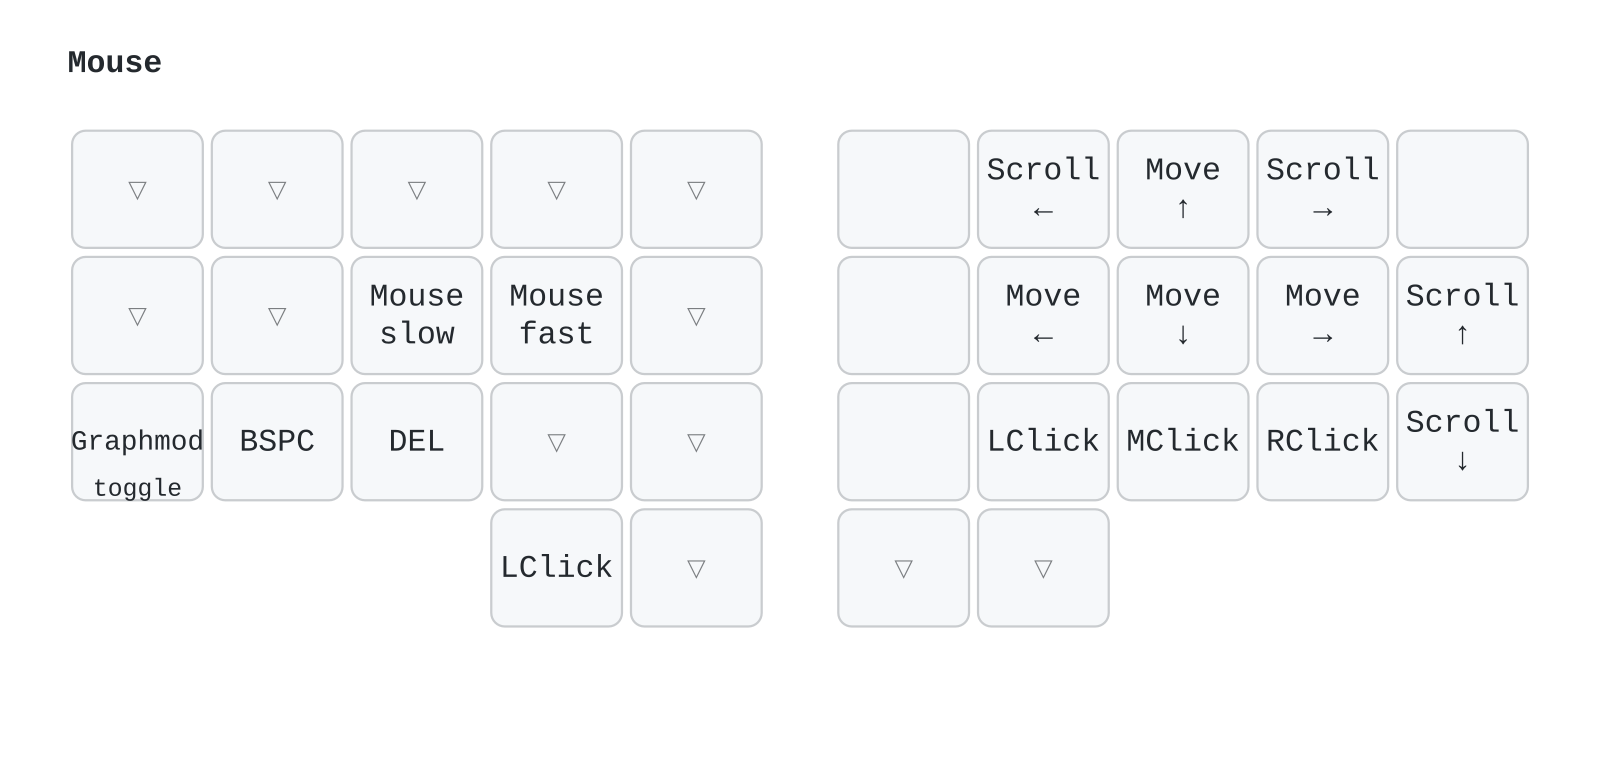
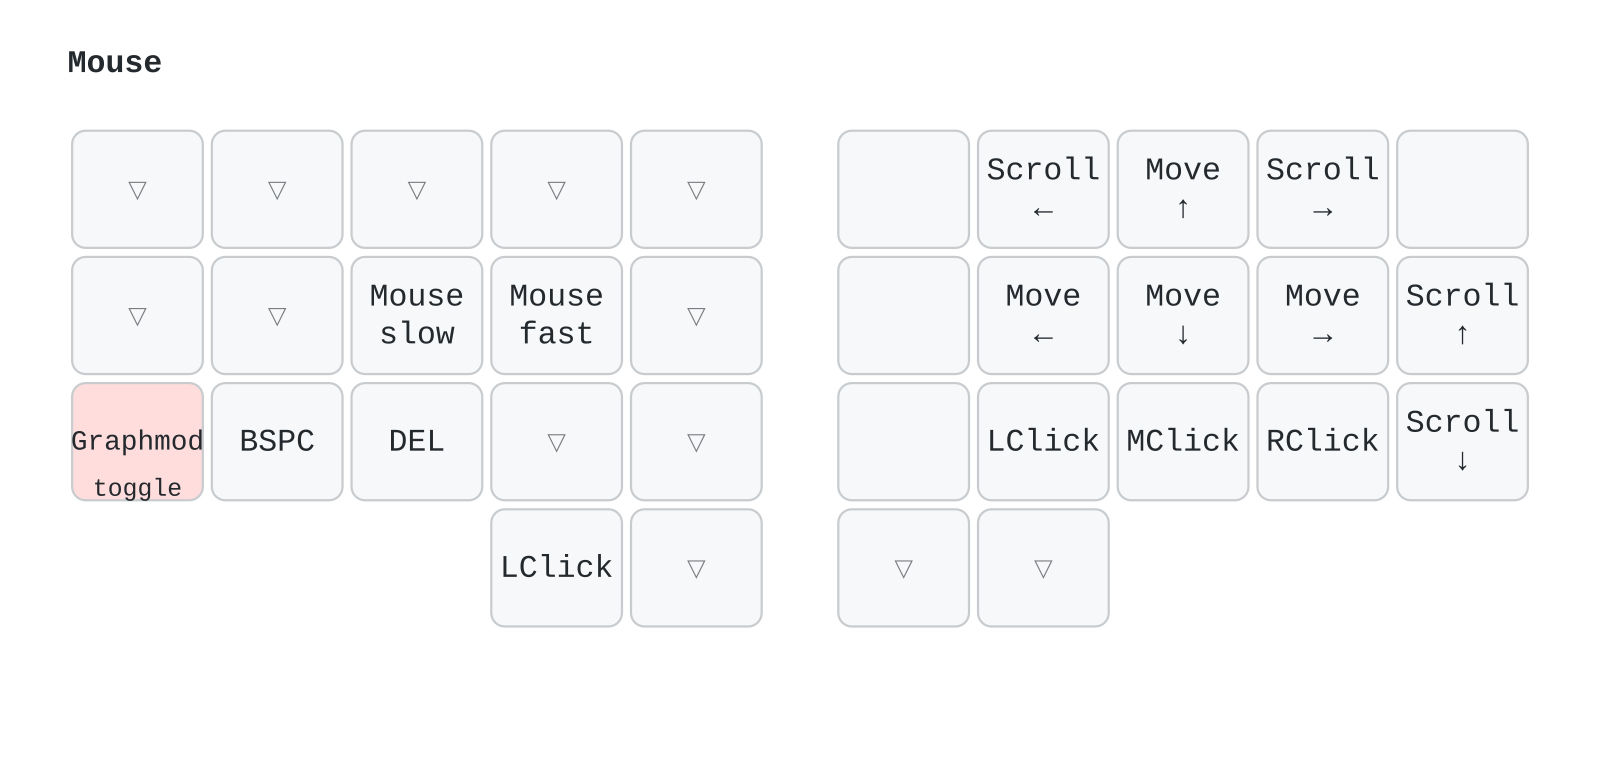
Hold Y for a momentary Mouse layer
Reaching the mouse previously meant a Navigate detour and a &to toggle
that had to be dismissed. Y (pos 20, left pinky) now uses the existing
LT_TH hold-tap -- the same &mo-hold/&kp-tap pattern as &LT_TH L_NUM N on
the same row -- so the layer lasts exactly as long as the hold and the
right hand is free for the pointer.

tap-preferred means the hold only resolves on time, never on another key
press, so a mouse key hit within the 200ms term still types y rather
than misfiring the layer. The &to L_MOUSE entry from Navigate and its
&to L_MAIN exit at pos 20 are untouched.

Claude-Session: https://claude.ai/code/session_01F9F6vhEb48m3X1UJPL4H3Y

Changed region(s): [[0.0312, 0.4855, 0.125, 0.6675]]

diff --git a/CLAUDE.md b/CLAUDE.md
@@ -58,7 +58,7 @@ Defined in `config/kibard.keymap`. Layer indices:
 | 3 | Right | right thumb hold (RET, pos 33) |
 | 4 | Navigate | right thumb hold (TAB, pos 32) |
 | 5 | Vim | `lt L_VIM V` (pos 14) |
-| 6 | Mouse | `to L_MOUSE` from Navigate |
+| 6 | Mouse | `LT_TH L_MOUSE Y` hold (pos 20), or `to L_MOUSE` from Navigate |
 | 7 | Functions | `to L_FUNC` from Navigate |
 | 8 | B (Bluetooth/system) | `to L_B` from Navigate |
 | 9 | Hex | `LT_TH L_HEX` on Numpad (pos 19) |
